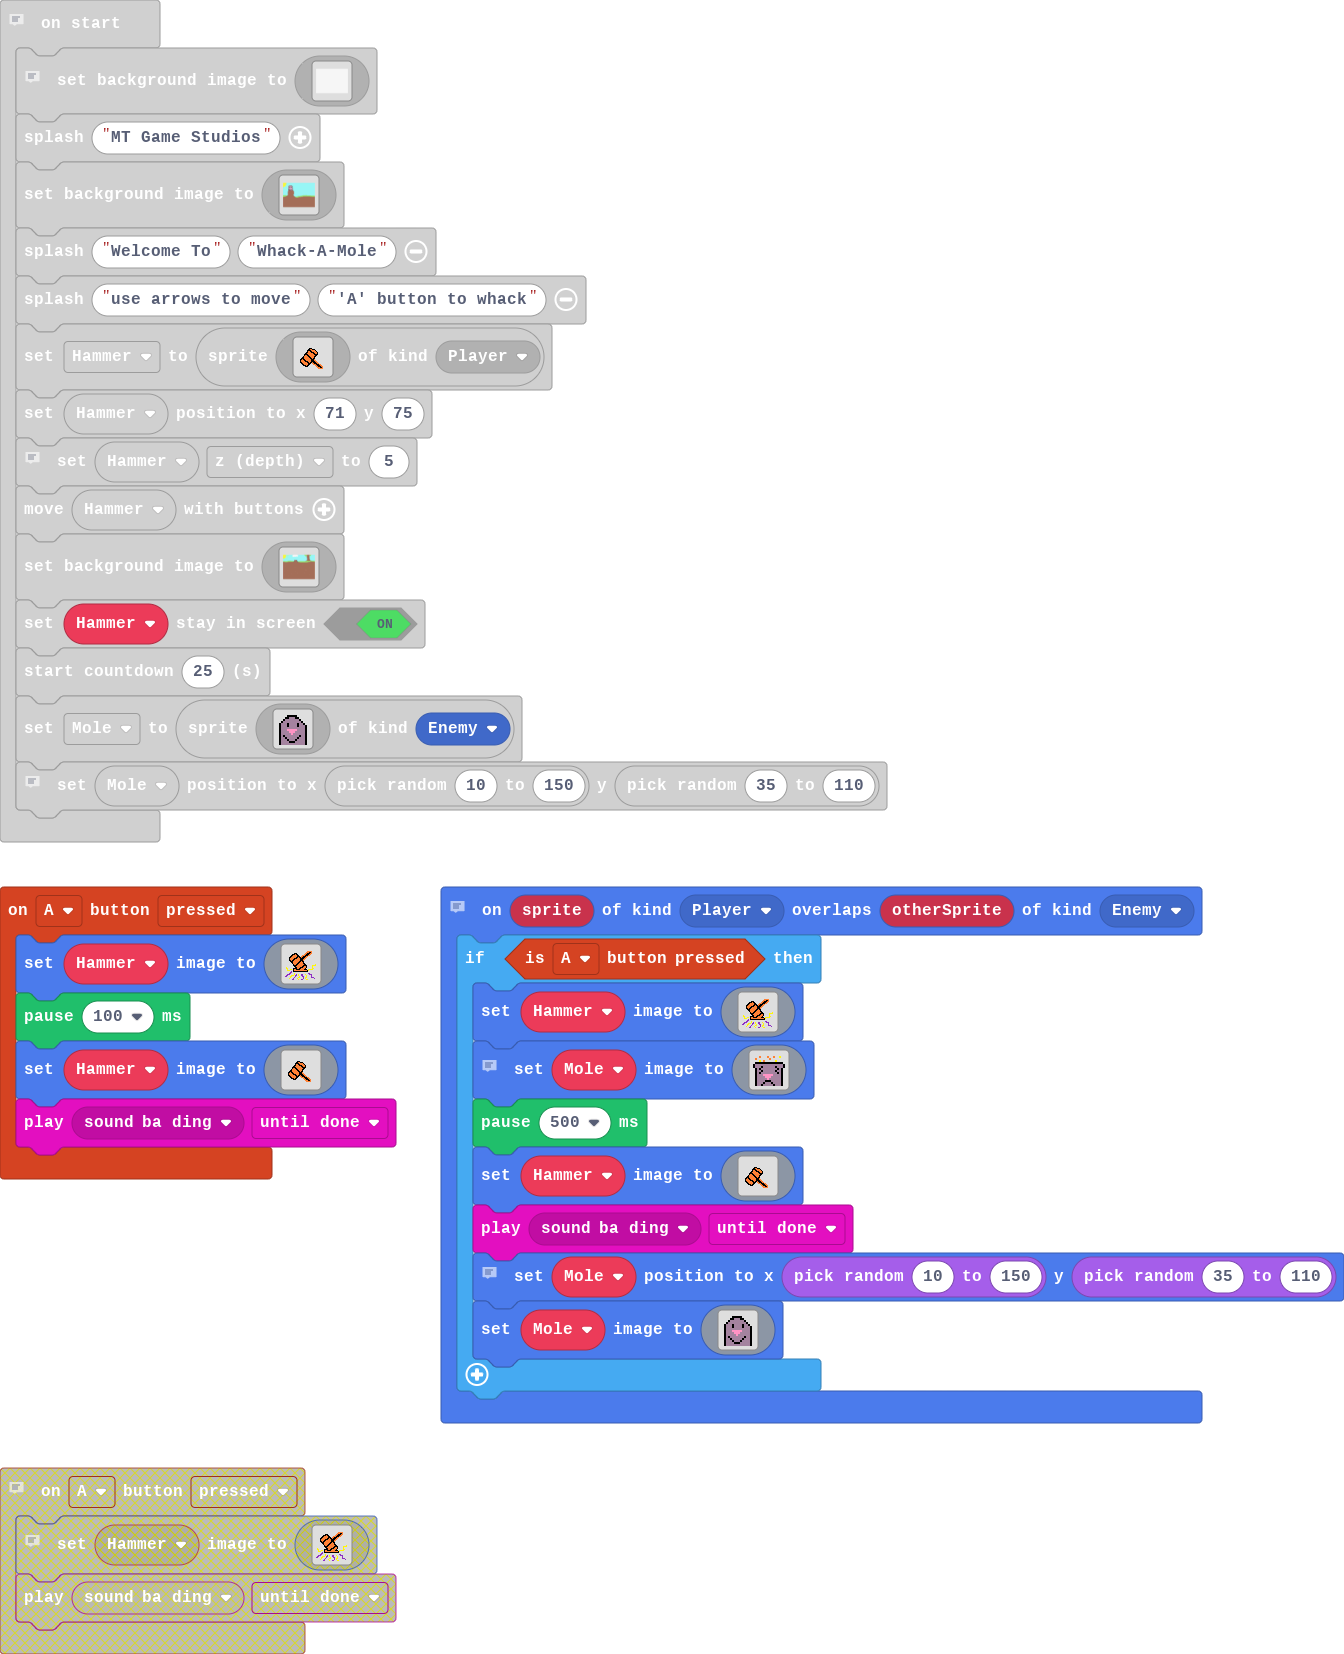
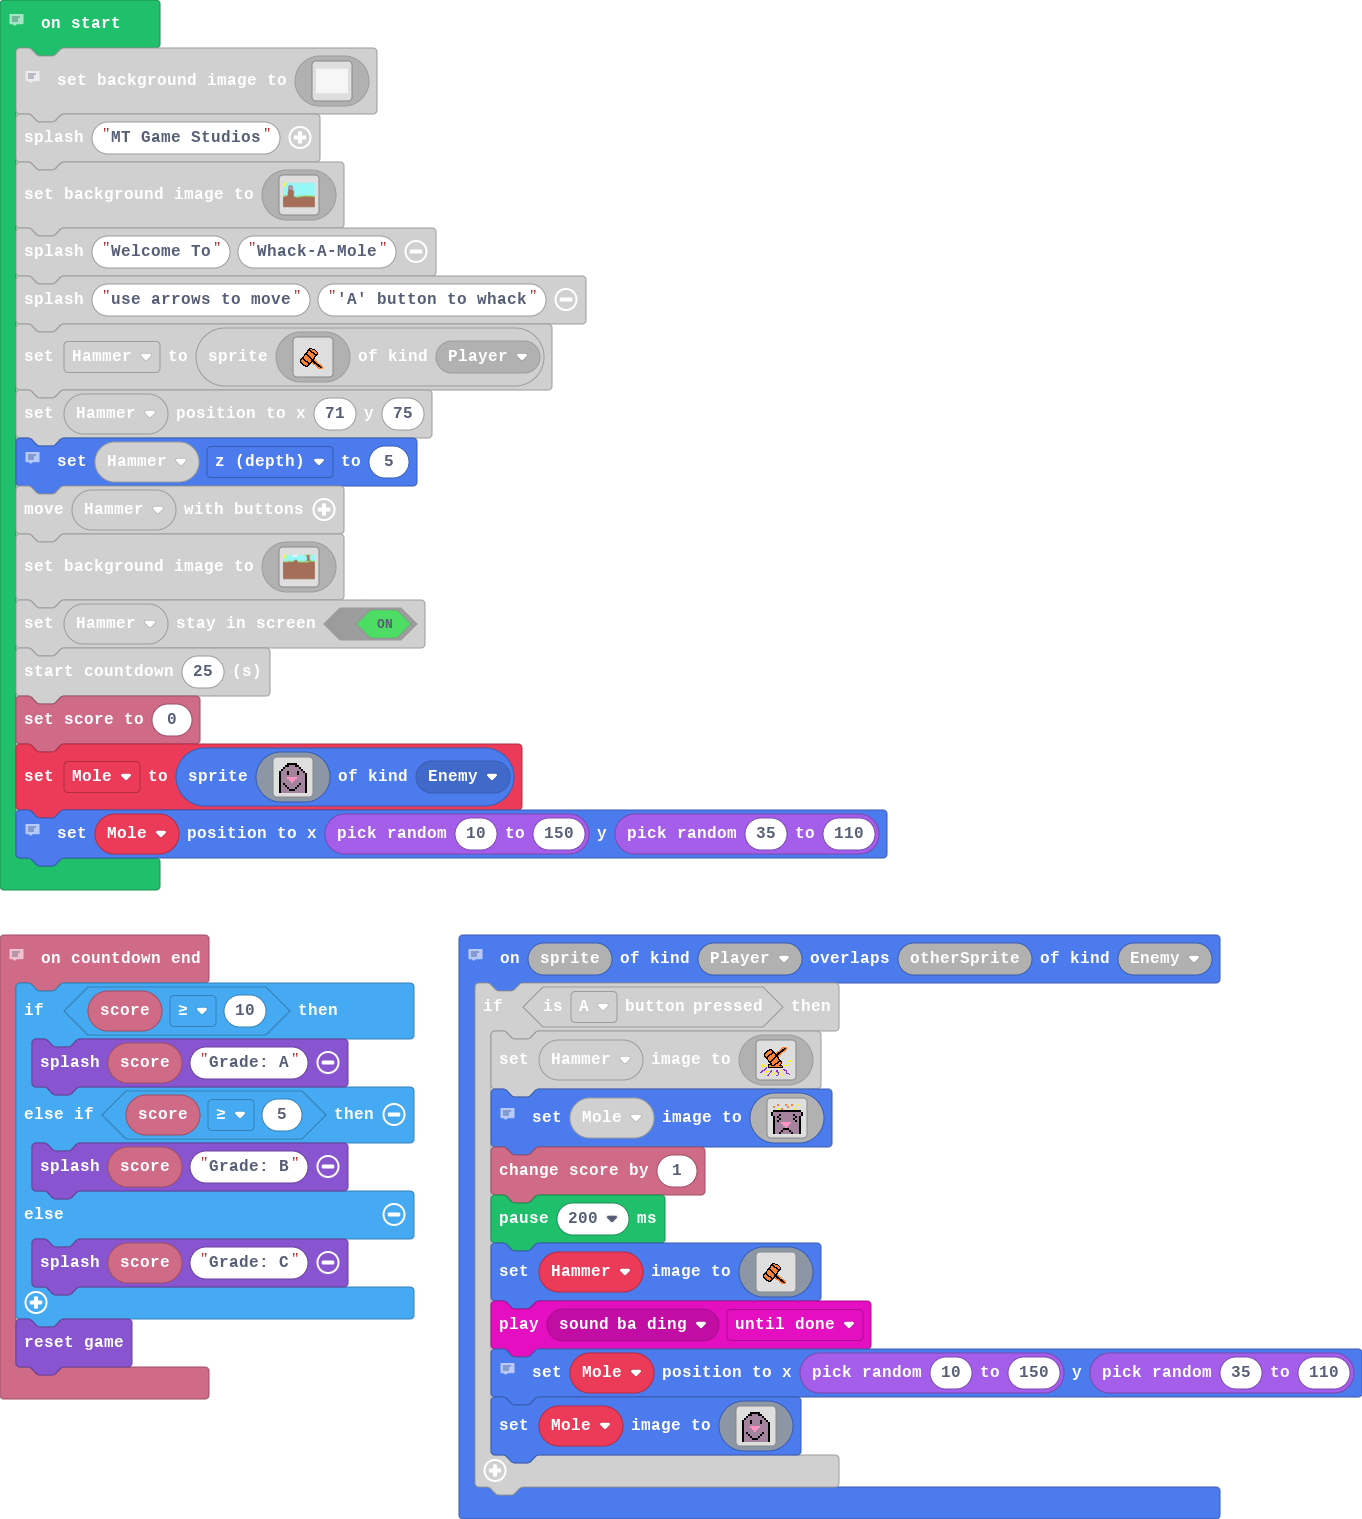
Final

diff --git a/main.ts b/main.ts
@@ -70,6 +70,20 @@ controller.A.onEvent(ControllerButtonEvent.Pressed, function () {
         `)
     music.play(music.melodyPlayable(music.baDing), music.PlaybackMode.UntilDone)
 })
+// Created by: Alexander James
+// Created on: June 18, 2024
+// 
+// This block determines your final grade depending on your score
+info.onCountdownEnd(function () {
+    if (info.score() >= 10) {
+        game.splash(info.score(), "Grade: A")
+    } else if (info.score() >= 5) {
+        game.splash(info.score(), "Grade: B")
+    } else {
+        game.splash(info.score(), "Grade: C")
+    }
+    game.reset()
+})
 // Checks if you hit a mole
 sprites.onOverlap(SpriteKind.Player, SpriteKind.Enemy, function (sprite, otherSprite) {
     if (controller.A.isPressed()) {
@@ -126,7 +140,8 @@ sprites.onOverlap(SpriteKind.Player, SpriteKind.Enemy, function (sprite, otherSp
             . f b b b f b b b f b b b b f . 
             . f b b f b b b b b f b b b f . 
             `)
-        pause(500)
+        info.changeScoreBy(1)
+        pause(200)
         Hammer.setImage(img`
             ................................
             ................................
@@ -188,9 +203,6 @@ sprites.onOverlap(SpriteKind.Player, SpriteKind.Enemy, function (sprite, otherSp
 // Created by: Alexander James
 // Created on: June 14 2024
 // This is the Whack-A-Mole program 
-// 
-// This block sets sprites and enables movement
-// 
 let Mole: Sprite = null
 let Hammer: Sprite = null
 // These blocks control the start screen
@@ -603,6 +615,7 @@ scene.setBackgroundImage(img`
     `)
 Hammer.setStayInScreen(true)
 info.startCountdown(25)
+info.setScore(0)
 Mole = sprites.create(img`
     . . . . . . . . . . . . . . . . 
     . . . . . f f f f f . . . . . . 
